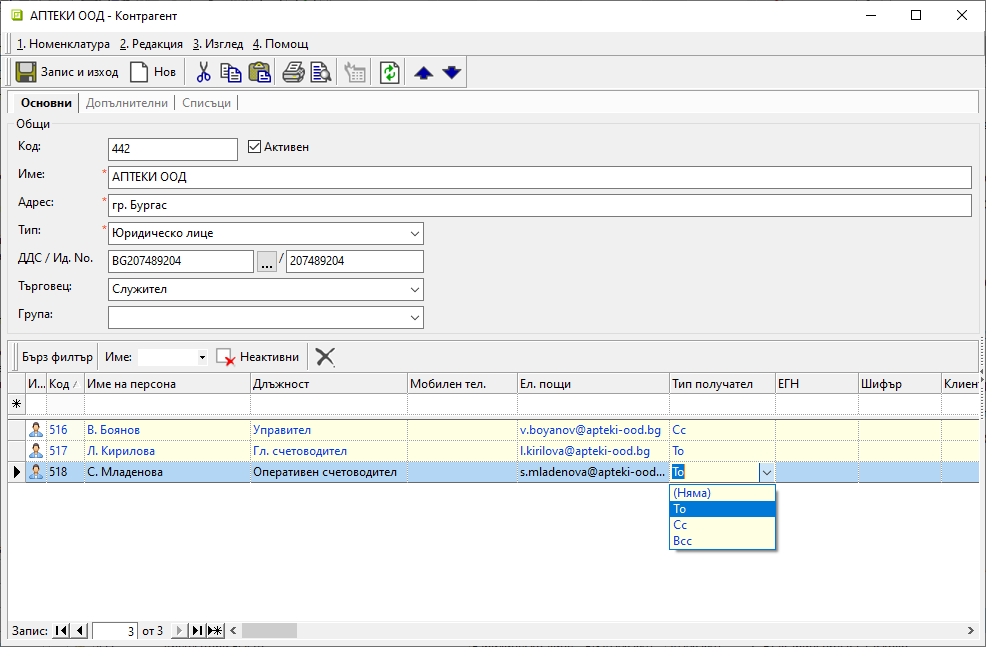
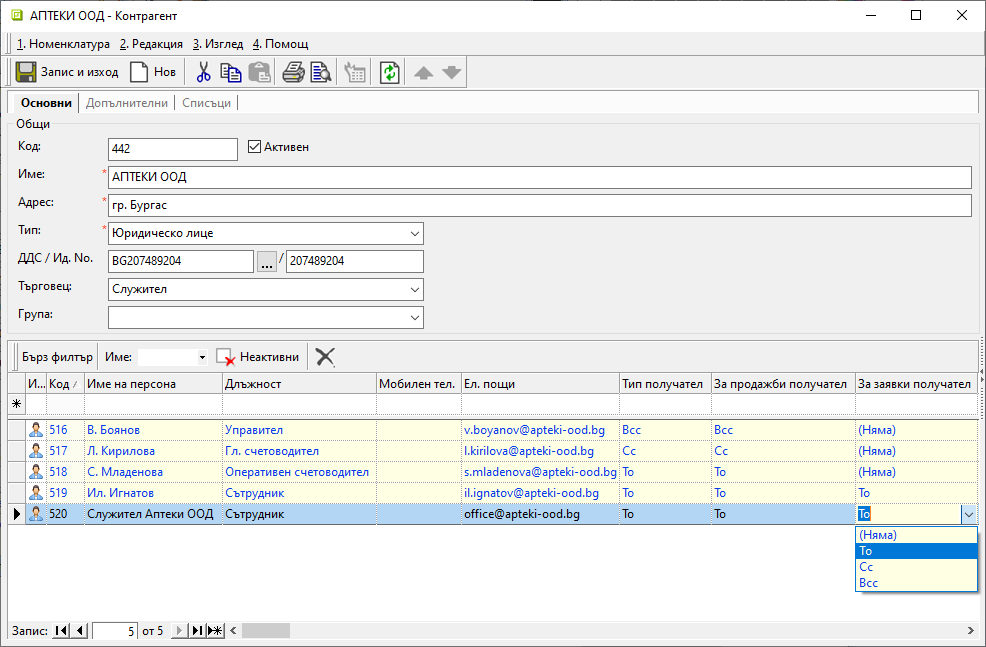
Редактиране

diff --git a/guide/erp/004-tips/013-document-emailing.md b/guide/erp/004-tips/013-document-emailing.md
@@ -8,8 +8,6 @@
 
 > Опцията е достъпна, когато потребителят има настроен имейл клиент (пощенска програма на компютъра, напр. Outlook). SMTP сървърът, паролата и акаунтът се обслужват от пощенската програма.  
 
-При изпращането системата попълва настроените имейл адрес на контрагента, на обекта и на лицата за контакт, като премахва дублираните.  
-
 1. **Настройки на имейл адреси**  
 
 - *Фирмени (неперсонални) имейли*  
@@ -23,9 +21,10 @@
 
 Отворете формата за редакция на избрания контрагент в раздел **Основни**.  
 В списъка с персони попълнете поле **Ел. пощи** с имейл адреси на лицата за контакт.  
-Настройте ролите, като чрез **Тип получател** разпределите адресите - *To* (*До*), *Cc* (*Копие*) и *Bcc* (*Скрито копие*).  
+Дефинирайте ролите - *(Няма)*, *To* (*До*), *Cc* (*Копие*) и *Bcc* (*Скрито копие*), като настроите **Тип получател**, **За продажби получател** и **За заявки получател**.  
 
-> Ако персона остане без роля, имейлът ѝ няма да участва в автоматичния списък с получатели.  
+> Ако е зададена специална роля в **За продажби получател** и **За заявки получател**, тя има предимство пред общата роля при изпращането на документи.  
+С празно поле в настройките за продажби или заявки се указва използване на общата роля **Тип получател**.  
 
 ![](913-document-emailing2.png){ class=align-center w=15cm }
 
@@ -52,10 +51,11 @@
 
 3. **Изпращане** - Отваря се форма за изпращане с добавени прикачени файлове за избраните документи. Автоматично е попълнен и текст към съобщението от предварително настроен шаблон. Текстът може да бъде редактиран по всяко време преди документът да бъде изпратен.  
 
-![](913-document-emailing6.png){ class=align-center w=15cm }
+> При изпращането основният адрес (*To*) идва от документа.  
+Ако има избран обект, неговият имейл адрес се добавя с предимство пред тези на лицата за контакт с настройки *To*.    
+Ако в документа реквизит **Ел. пощи** остане празен, се взема имейл на контрагента.  
 
-> Като основни получатели в поле **To** автоматично се попълват имейл на контрагента и на обекта, ако е бил избран в документа.  
-Отделните персони на контрагента с тази роля се попълват, когато за обект и контрагент няма настройки.  
+![](913-document-emailing6.png){ class=align-center w=15cm }
 
 Ако няма предварително настроен имейл за получателя, въведете на момента в поле **To**.  
 Завършете процеса без особености.  
